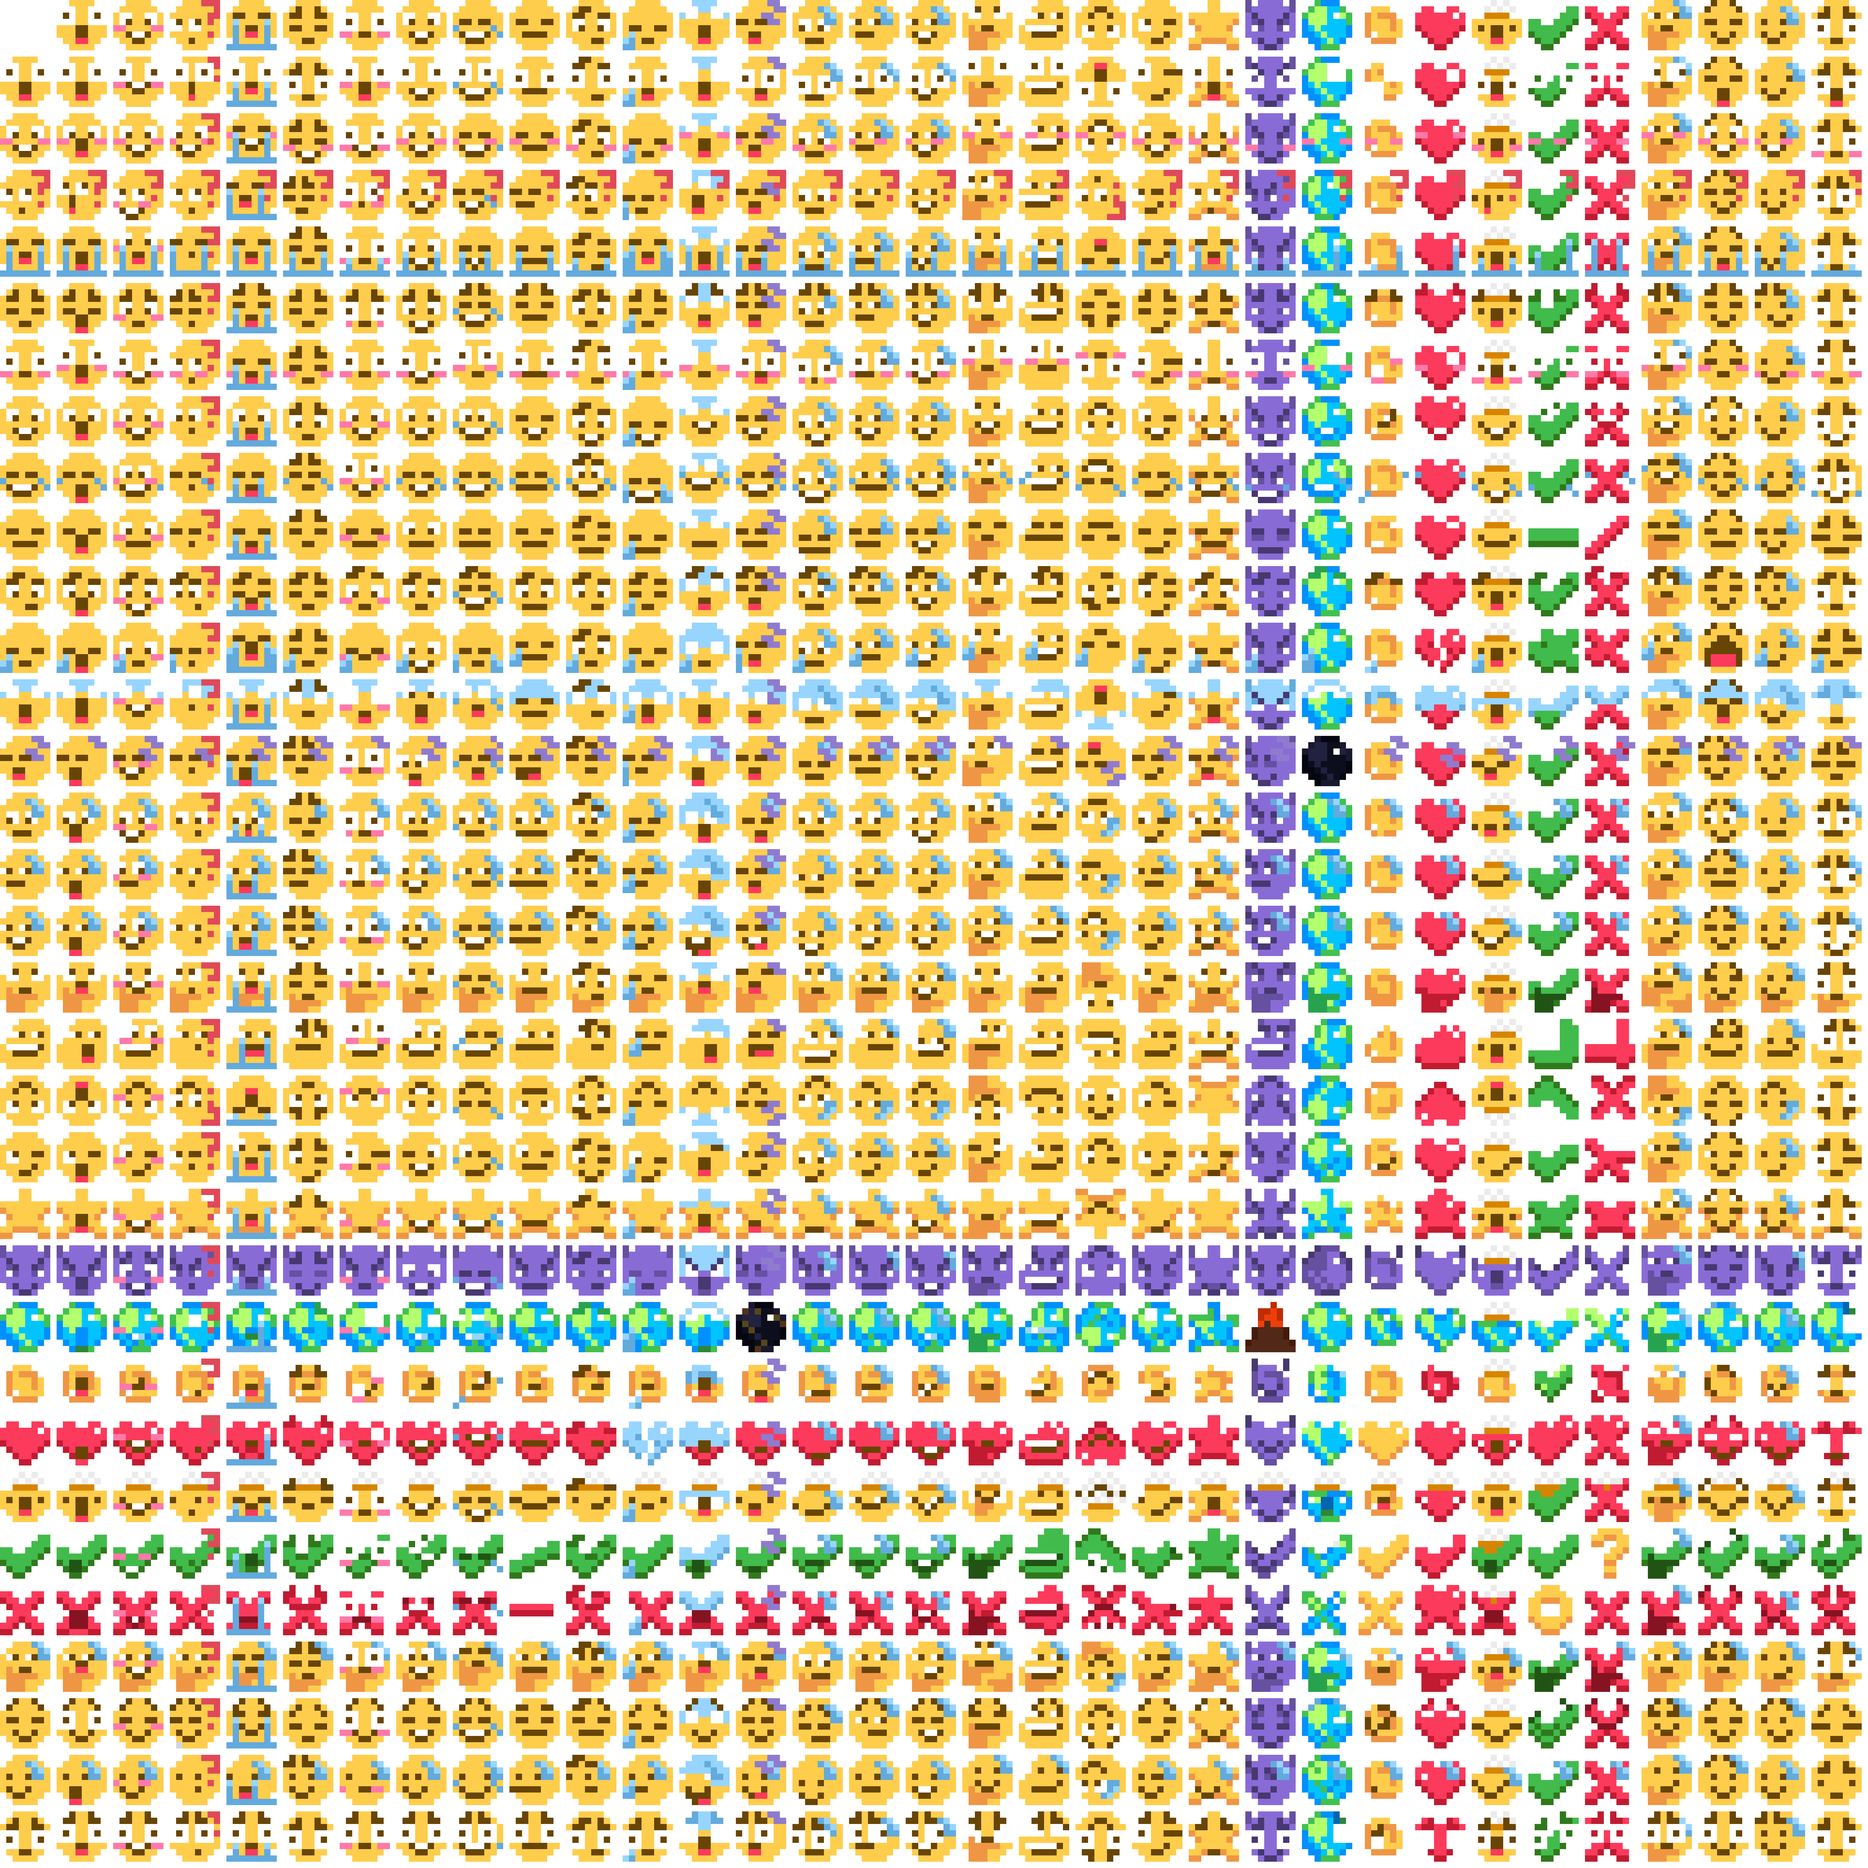
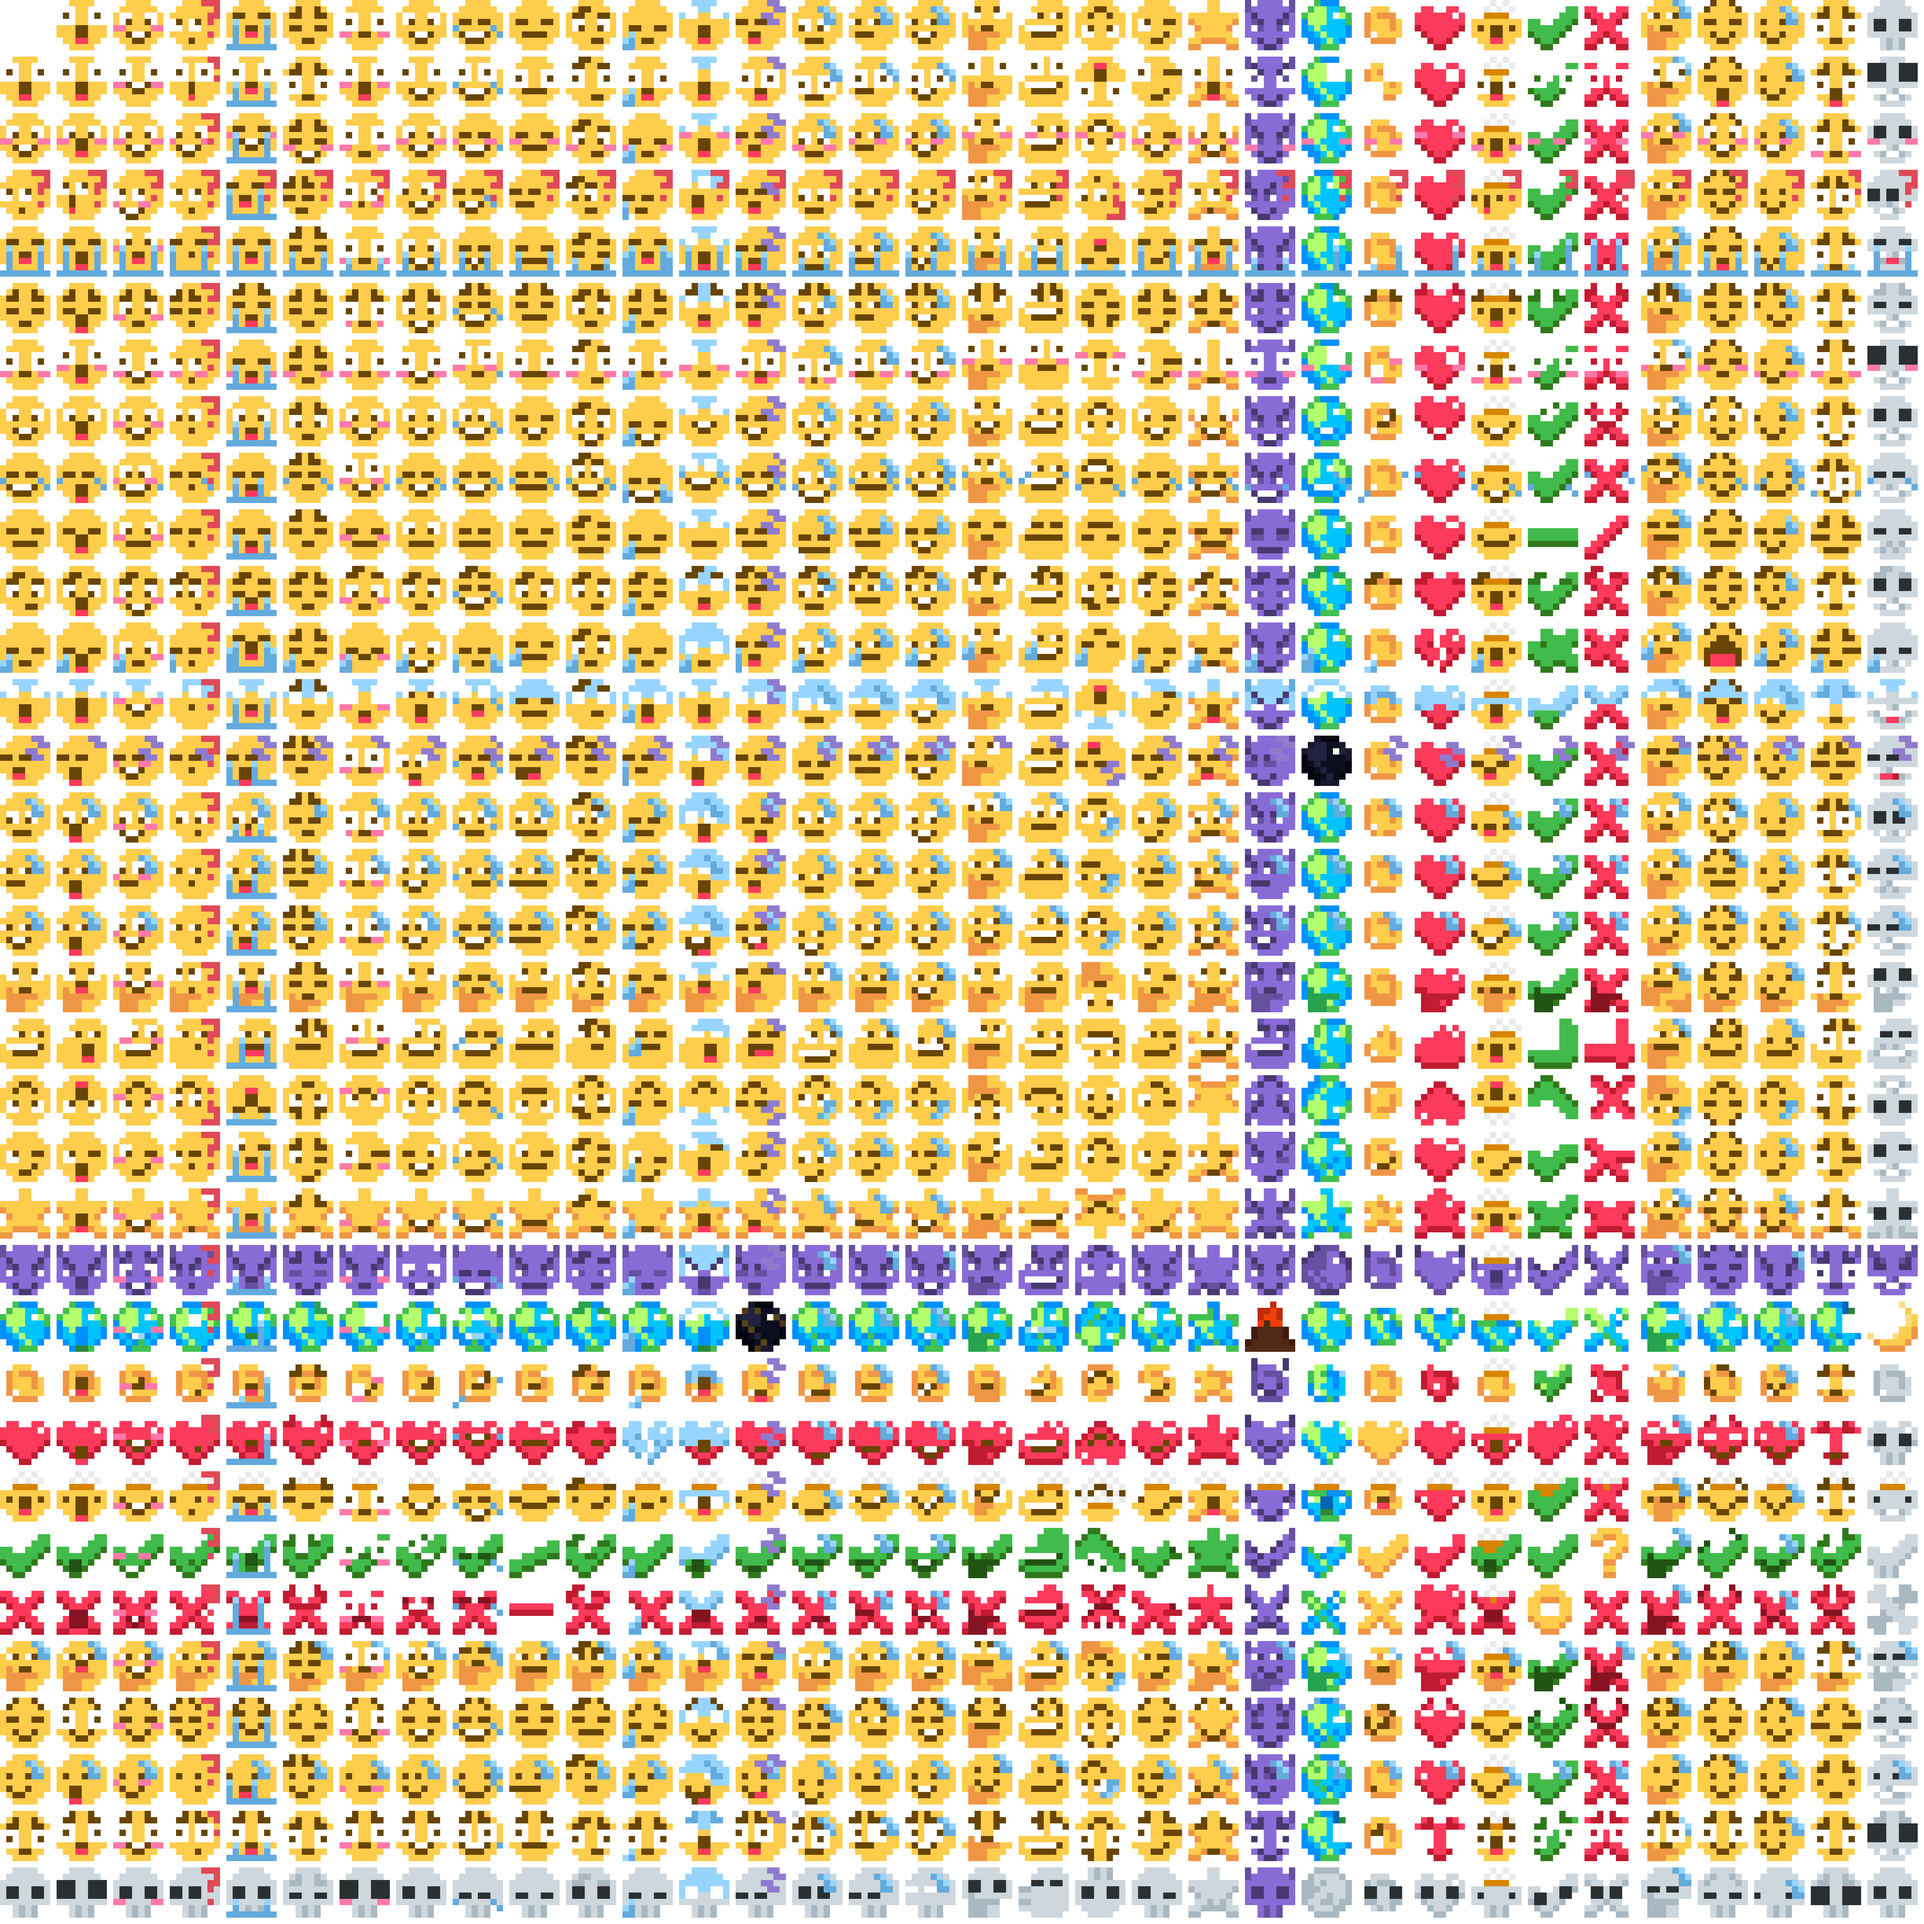
Added Skull Automatic Emoji numbering

diff --git a/code.js b/code.js
@@ -20,7 +20,7 @@ function capitalizeFirstLetter(string) {
 }
 
 const mojinames =
-    "Surprised;Blush;Confused;Crying;Dissapoint;Flush;Happy;Laugh;Putoff;Puzzled;Sad;Shocked;Sleep;Sweating;Suspicious;Sweatsmile;Think;Troll;Flipped;Wink;Star;Imp;Wiki;Coin;Love;Mind Blown;Yes;No;Sweat Think;Relief;Nope;Scarred";
+    "Surprised;Blush;Confused;Crying;Dissapoint;Flush;Happy;Laugh;Putoff;Puzzled;Sad;Shocked;Sleep;Sweating;Suspicious;Sweatsmile;Think;Troll;Flipped;Wink;Star;Imp;Wiki;Coin;Love;Mind Blown;Yes;No;Sweat Think;Relief;Nope;Concerned;Skull";
 let mojicount = mojinames.split(";").length + 1
 
 function update() {

diff --git a/assets/fusionGen.py b/assets/fusionGen.py
@@ -3,10 +3,10 @@ from PIL import Image as im
 full = im.open("./full.png")
 
 size = full.size[0]
-print(size)
-mojiCount = 33
+mojiSize = 180
 
-mojiSize = size/mojiCount
+mojiCount = int(size/mojiSize) 
+
 for y in range(mojiCount):
     for x in range(mojiCount):
         newCrop = full.crop((x*mojiSize, y*mojiSize, (x+1/9*8)*mojiSize, (y+1/9*8)*mojiSize))
